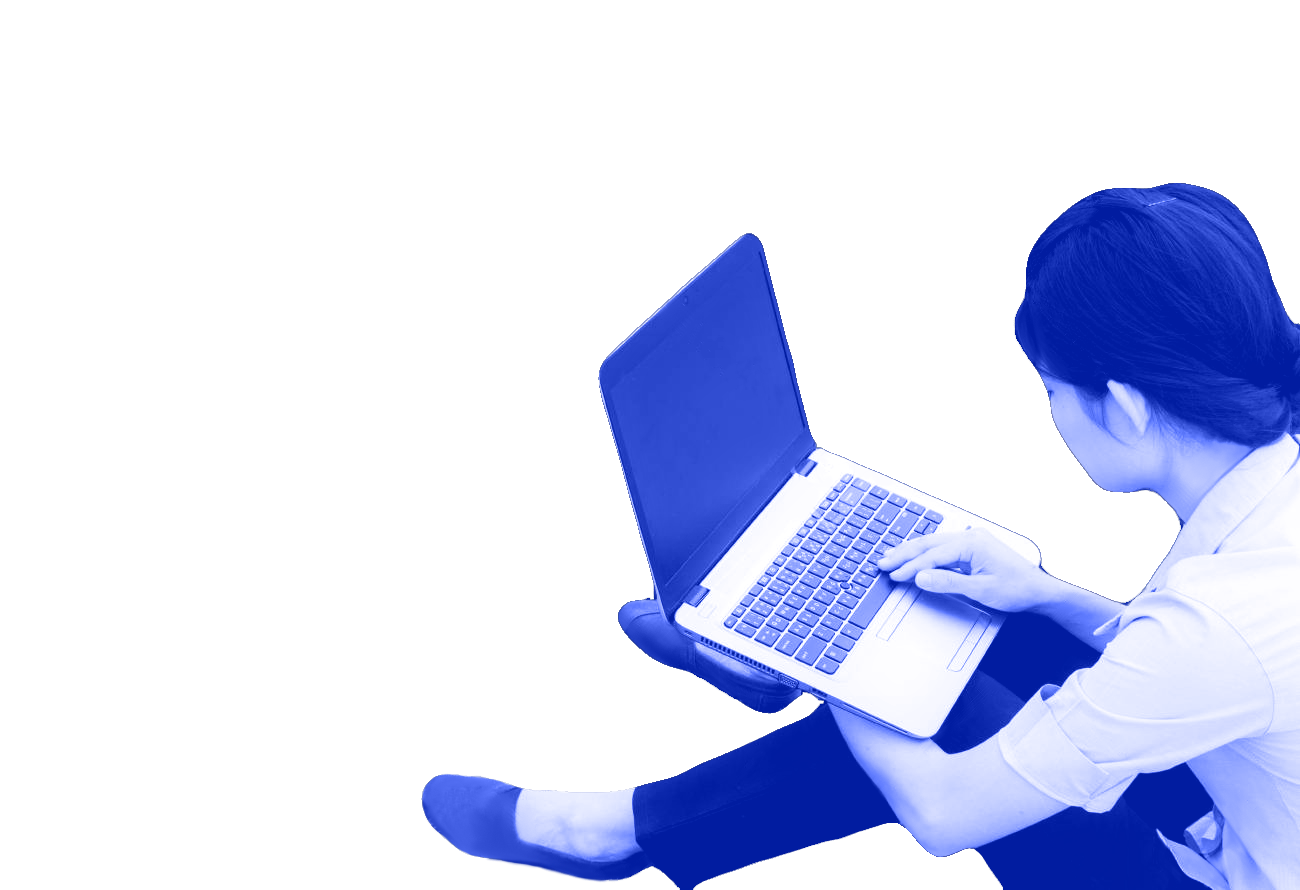
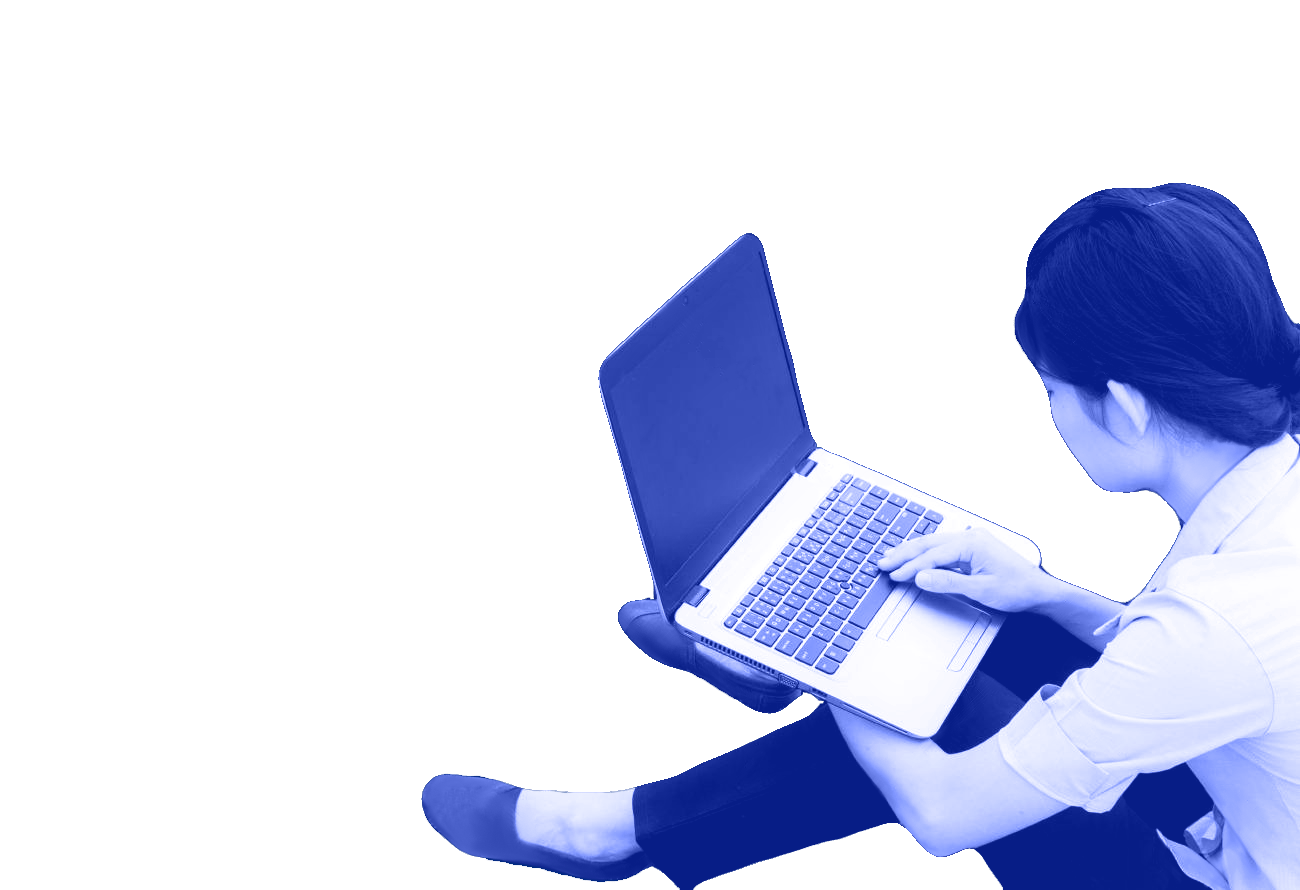
commit

Changed region(s): [[0.3077, 0.2427, 0.8615, 1.0], [0.7692, 0.182, 1.0, 0.5157], [0.7385, 0.8494, 0.9538, 1.0]]

diff --git a/ph/the-digital-divide.html b/ph/the-digital-divide.html
@@ -102,9 +102,8 @@
     <div id="fullPage">
     
       <!-- START - SECTION 1: OVERVIEW -->
-      <div class="section" id="the-digital-divide" style="background-color: #002b7f;">
+      <div class="section" id="the-digital-divide" style="background-image: url('https://github.com/MCTTAN/risingforlearners/blob/master/ph/media/free-to-use/edits/girl-with-laptop-blue.png?raw=true'); background-position: bottom right; background-repeat: no-repeat; background-color: #002b7f;">
         
-          
           <div class="container container-1">
             <div class="section-title box-1 the-digital-divide-1">
             
